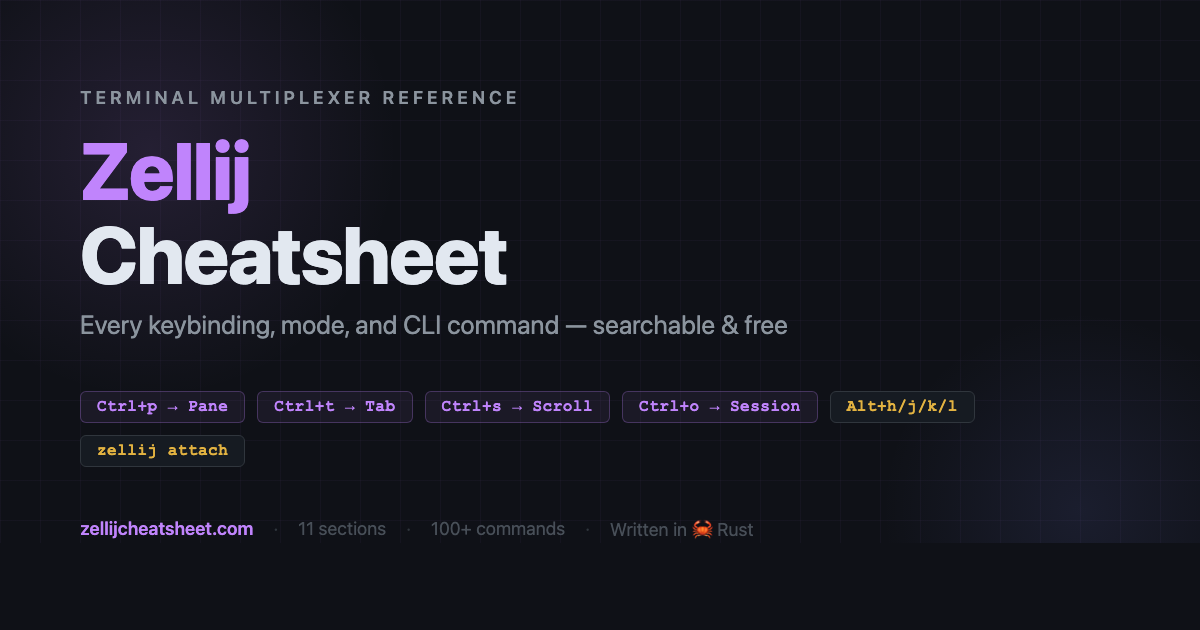
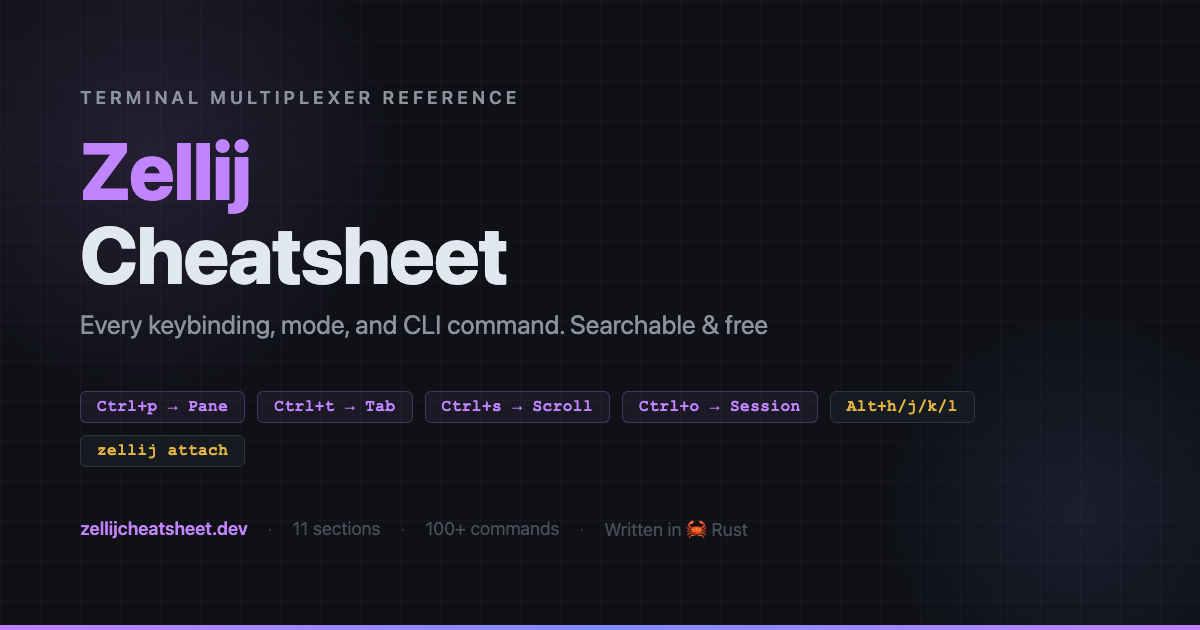
fix(og-image): drop em dash from tagline; regenerate stale PNG
The tagline rewrite follows the no-em-dash rule for published copy.
Regenerating also fixes the served social card, which was stale: it
showed the wrong domain (zellijcheatsheet.com) although the source
already said zellijcheatsheet.dev.

diff --git a/og-image.html b/og-image.html
@@ -132,7 +132,7 @@
   <div class="content">
     <div class="eyebrow">Terminal Multiplexer Reference</div>
     <div class="title"><span class="accent">Zellij</span><br>Cheatsheet</div>
-    <div class="tagline">Every keybinding, mode, and CLI command — searchable &amp; free</div>
+    <div class="tagline">Every keybinding, mode, and CLI command. Searchable &amp; free</div>
     <div class="pills">
       <div class="pill purple">Ctrl+p → Pane</div>
       <div class="pill purple">Ctrl+t → Tab</div>
